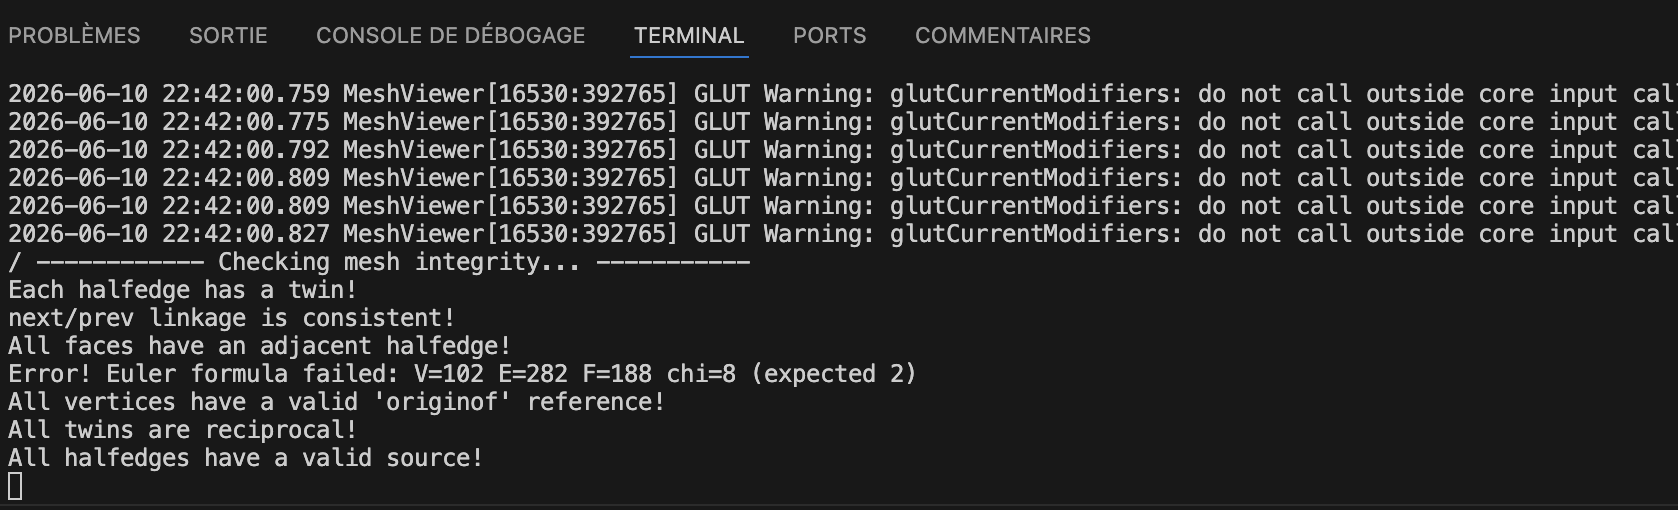
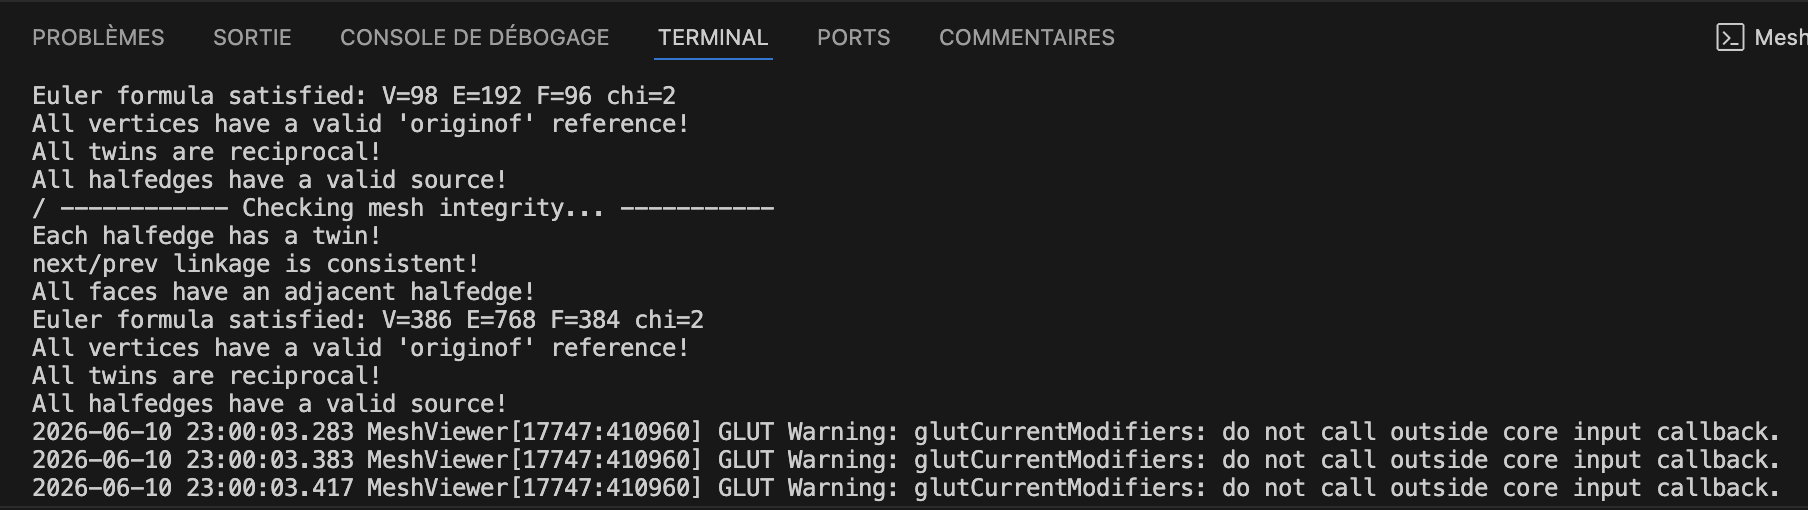
Ajout des dernières captures

Changed region(s): [[0.0, 0.1471, 1.0, 0.9706], [0.0, 0.0294, 0.6508, 0.1176], [0.9297, 0.0588, 1.0, 0.0882]]

diff --git a/main.cpp b/main.cpp
@@ -61,7 +61,7 @@ myFace *closest_face;
 
 #include "helperFunctions.h"
 
-char* file = "dolphin.obj";
+char* file = "gear.obj";
 
 void clear()
 {

diff --git a/README.md b/README.md
@@ -17,6 +17,7 @@ Ce dépôt contient l'ensemble des travaux pratiques et des fonctionnalités obl
 - **Statut** : 🟩 Terminé
 - **Détails** : Permet au visualisateur d'afficher correctement les ombres et les reflets de lumière sur l'objet.
 - **Captures** : ![](screenshots/normals.png)
+![](screenshots/normals2.png)
 
 ### 3. Détection de Silhouette (`Silhouette`)
 - **Description** : Dessin des contours extérieurs du modèle selon l'angle de la caméra.
@@ -29,8 +30,10 @@ Ce dépôt contient l'ensemble des travaux pratiques et des fonctionnalités obl
 - **Statut** : 🟩 Terminé (2 Niveaux)
 - **Détails** : 
   - *Basique* : Gestion des faces convexes par fan-triangulation. (Ne marche pas avec les surfaces concaves en testant avec `gear.obj`)
+  ![](screenshots/gear.png)
   - *Avancé* : Gestion des faces concaves (via l'algorithme des oreilles / *Ear Clipping*).
-- **Captures** : ![](screenshots/triangulation.png)
+- **Captures** :  ![](screenshots/earClipping.png)
+ ![](screenshots/triangulation.png)
 
 ### 5. Tests de Structure Half-Edge (`half-edge data structure tests`)
 - **Description** : Suite de tests unitaires et de cohérence topologique intégrée via la fonction `checkMesh()`.
@@ -48,13 +51,14 @@ Ce dépôt contient l'ensemble des travaux pratiques et des fonctionnalités obl
 - **Description** : Allégement du modèle en supprimant des arêtes.
 - **Statut** : 🟩 Terminé
 - **Détails** : L'algorithme cherche l'arête la plus courte du maillage entier et la fusionne en un seul sommet, puis nettoie les faces écrasées et reconnecte proprement les voisins.
+- **Captures** : ![](screenshots/simplification.png)
 
 ### 8. Subdivision de Catmull-Clark (`Catmull-Clark mesh subdivision`)
 - **Description** : Algorithme de subdivision de surface pour lisser et arrondir les maillages de manière itérative.
 - **Statut** : 🟩 Terminé
 - **Détails** : Divise chaque face en quadrilatères et recalcule la position de tous les points (formules de Catmull-Clark).
 - **Captures** : ![](screenshots/catmull.png)
-
+![](screenshots/catmull1.png)
 ---
 
 ## Déclaration et Justification de l'Utilisation de l'IA (Gemini)
